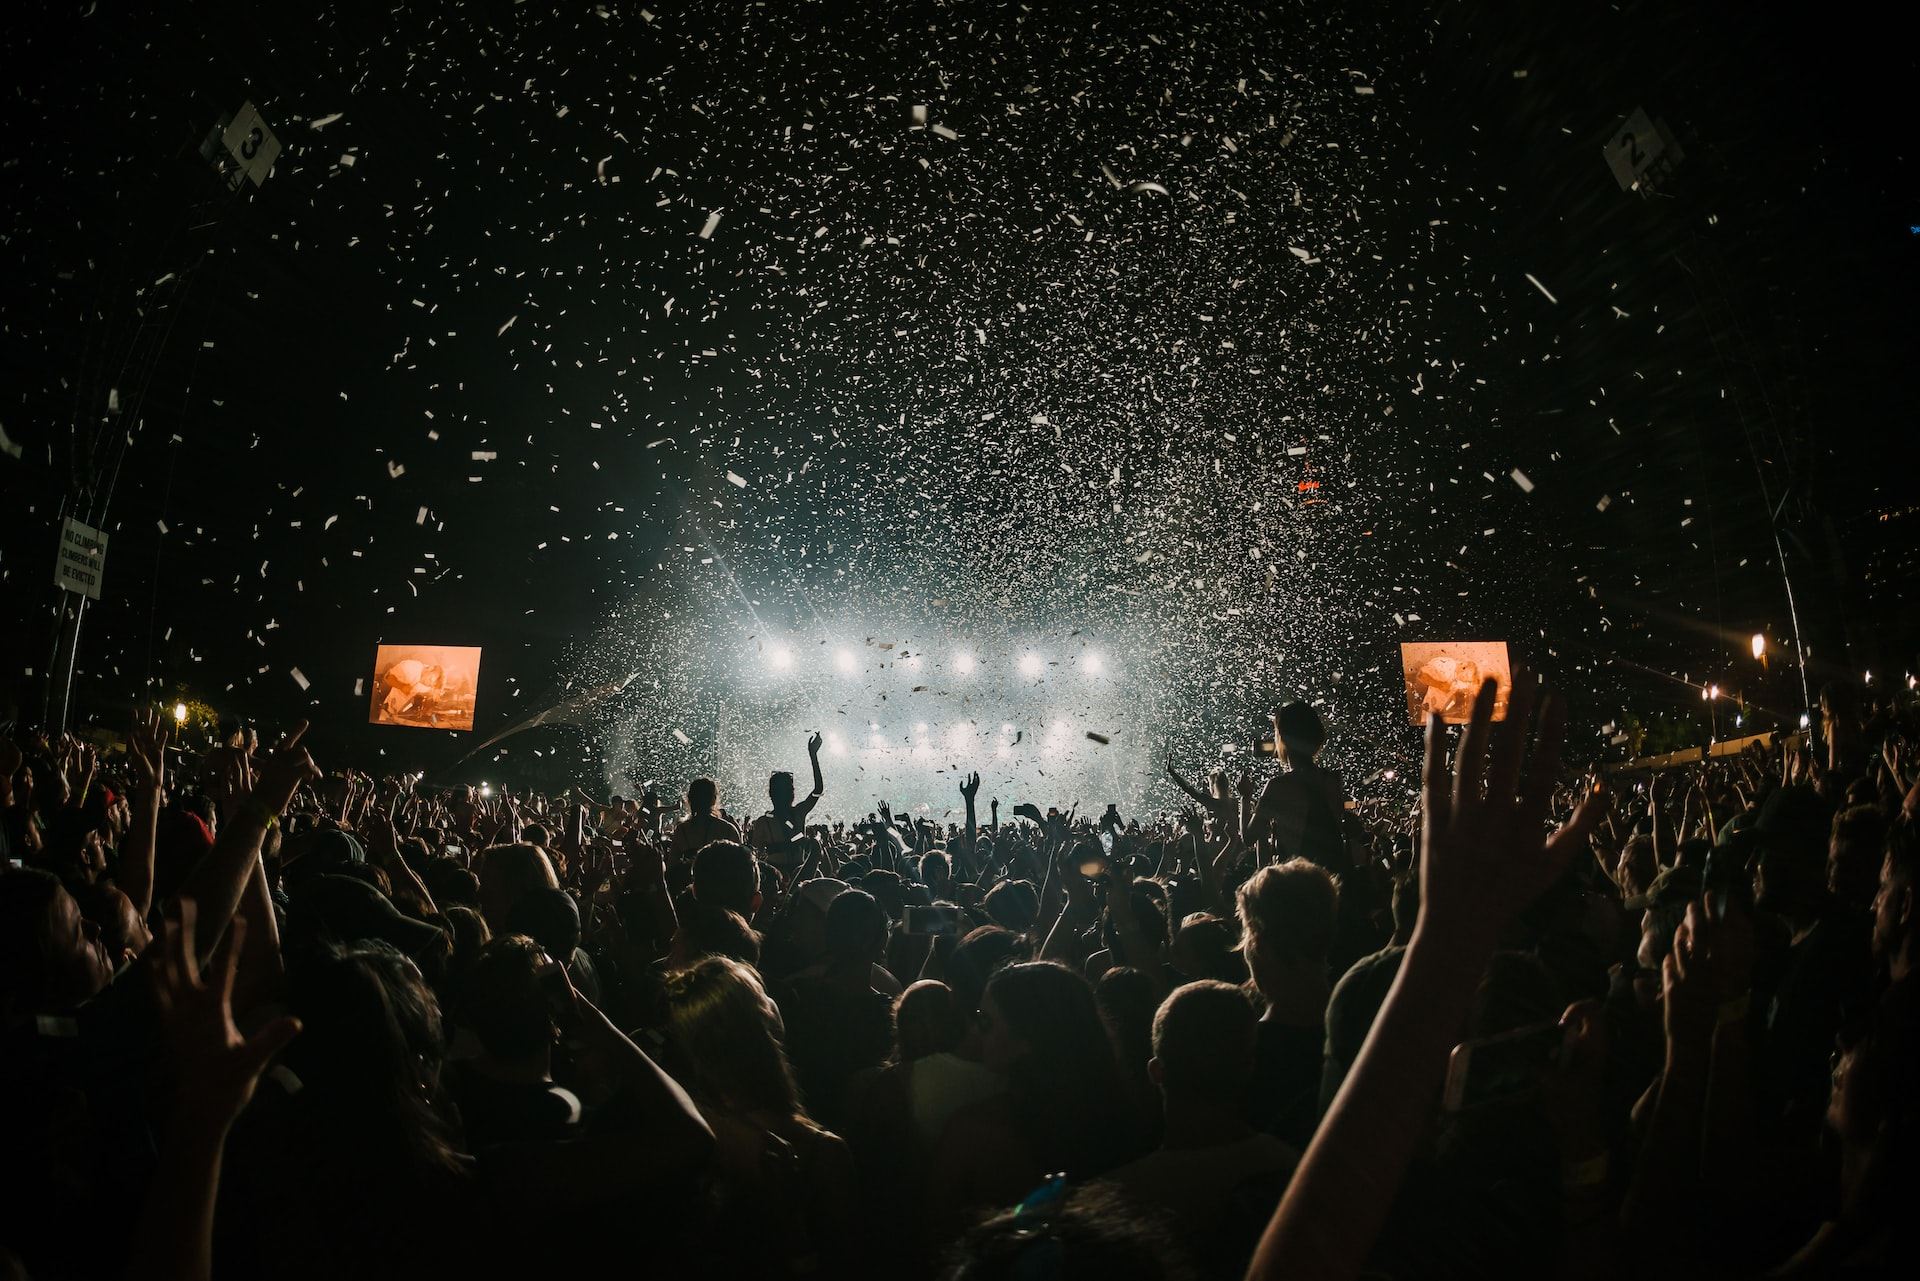
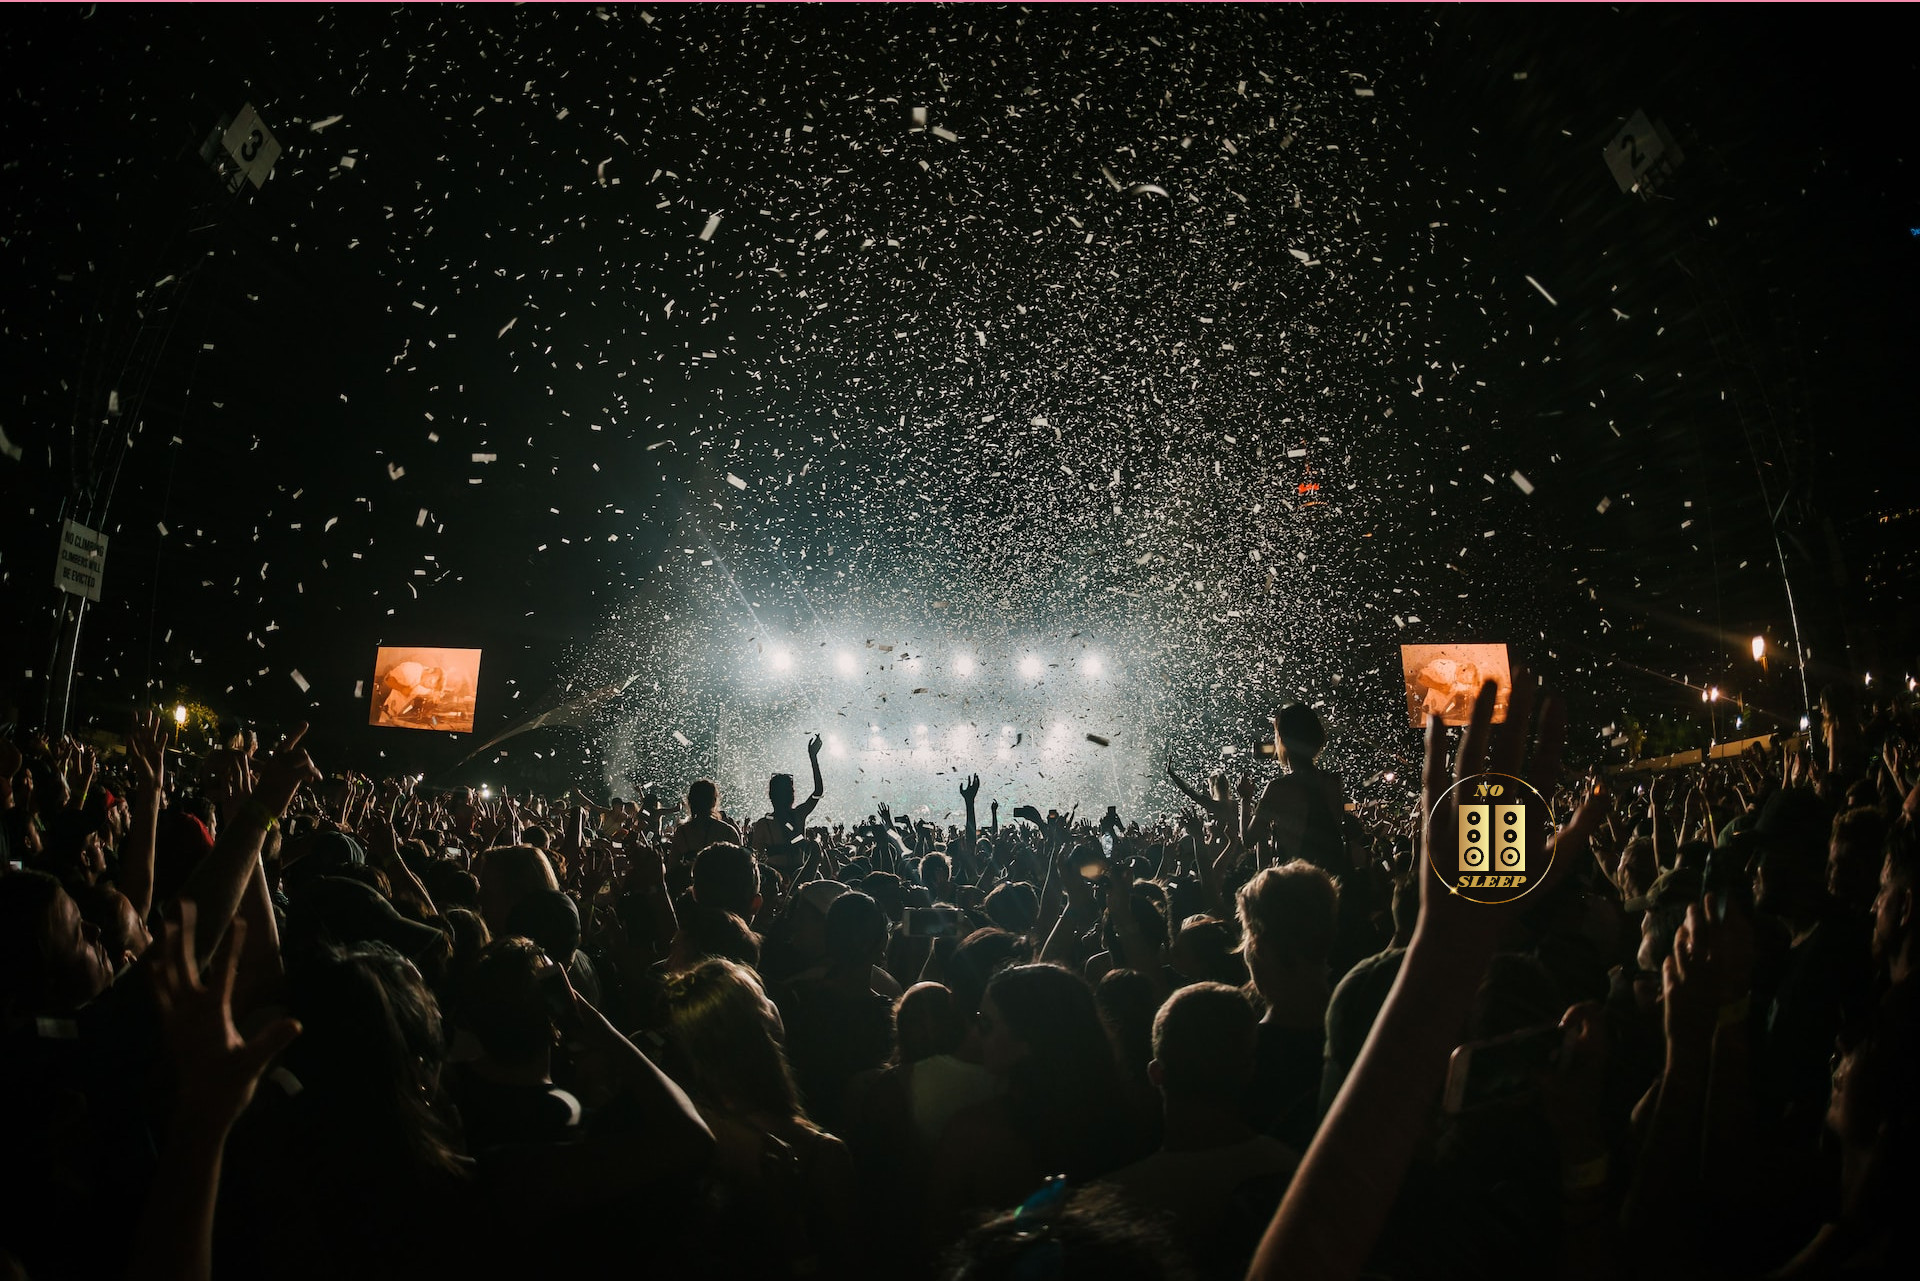
changement image accueil

diff --git a/src/views/HomePageView.vue b/src/views/HomePageView.vue
@@ -31,7 +31,7 @@
                 {{ summary }}
             </v-btn>
         </v-row>
-      <div class="text1"><img src="@/assets/logo_v1.png" style="margin-left: 28em;" height="200" width="200">
+      <div class="text1">
         <p class="text-over1">NO SLEEP FESTIVAL</p>
         <p class="text-over1"> FRANCE 2023</p>
         <p class="text-over2">22.07.23 - 26.07.23 LYON, LE GRAND BOURG</p>
